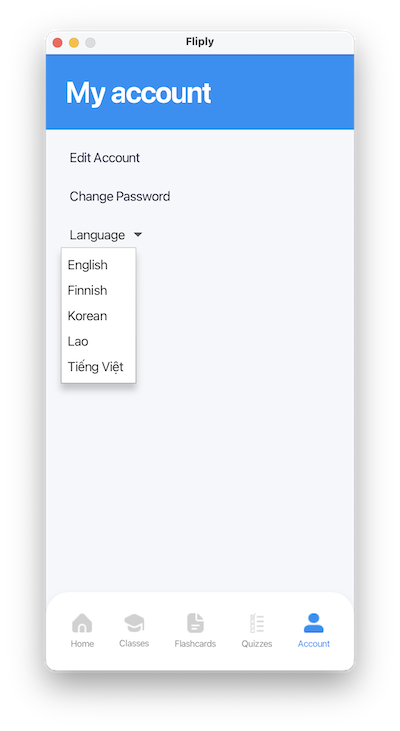
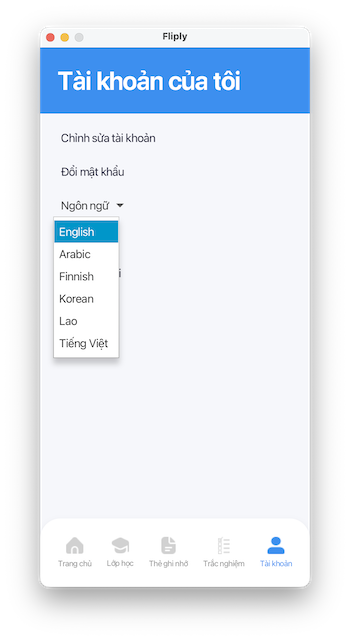
Update README.md with new language Arabic and Sequence Diagram

diff --git a/README.md b/README.md
@@ -11,7 +11,7 @@ Fliply is an online flashcard learning application for students and teachers. Th
 - Quiz mode
 - Classroom management
 - Progress tracking
-- Support multi-language (English, Finnish, Korean, Lao, Vietnamese)
+- Support multi-language (English, Arabic, Finnish, Korean, Lao, Vietnamese)
 
 ## Screens
 ![Fliply Welcome](documents/Images/Fliply-Welcome.png)
@@ -19,22 +19,22 @@ Fliply is an online flashcard learning application for students and teachers. Th
 
 ## Diagrams
 ### Use Case Diagram
-
 ![Use Case Diagram](documents/Diagrams/UseCase.png)
 
 ### ER Diagram
-
 ![ER Diagram](documents/Diagrams/ERDiagram.png)
 
 ### Relational Schema
-
 ![Relational Schema](documents/Diagrams/RelationalSchema.png)
 
 ### Activity Diagram
 ![Activity Diagram](documents/Diagrams/ActivityDiagram-GenerateQuiz.png)
 
-### Class Schema
+### Class Diagram
 ![Class Diagram](documents/Diagrams/ClassDiagram.png)
+
+### Sequence Diagram
+![Sequence Diagram](documents/Diagrams/SequenceDiagram.png)
 
 ## Technologies Used
 - Java 21
